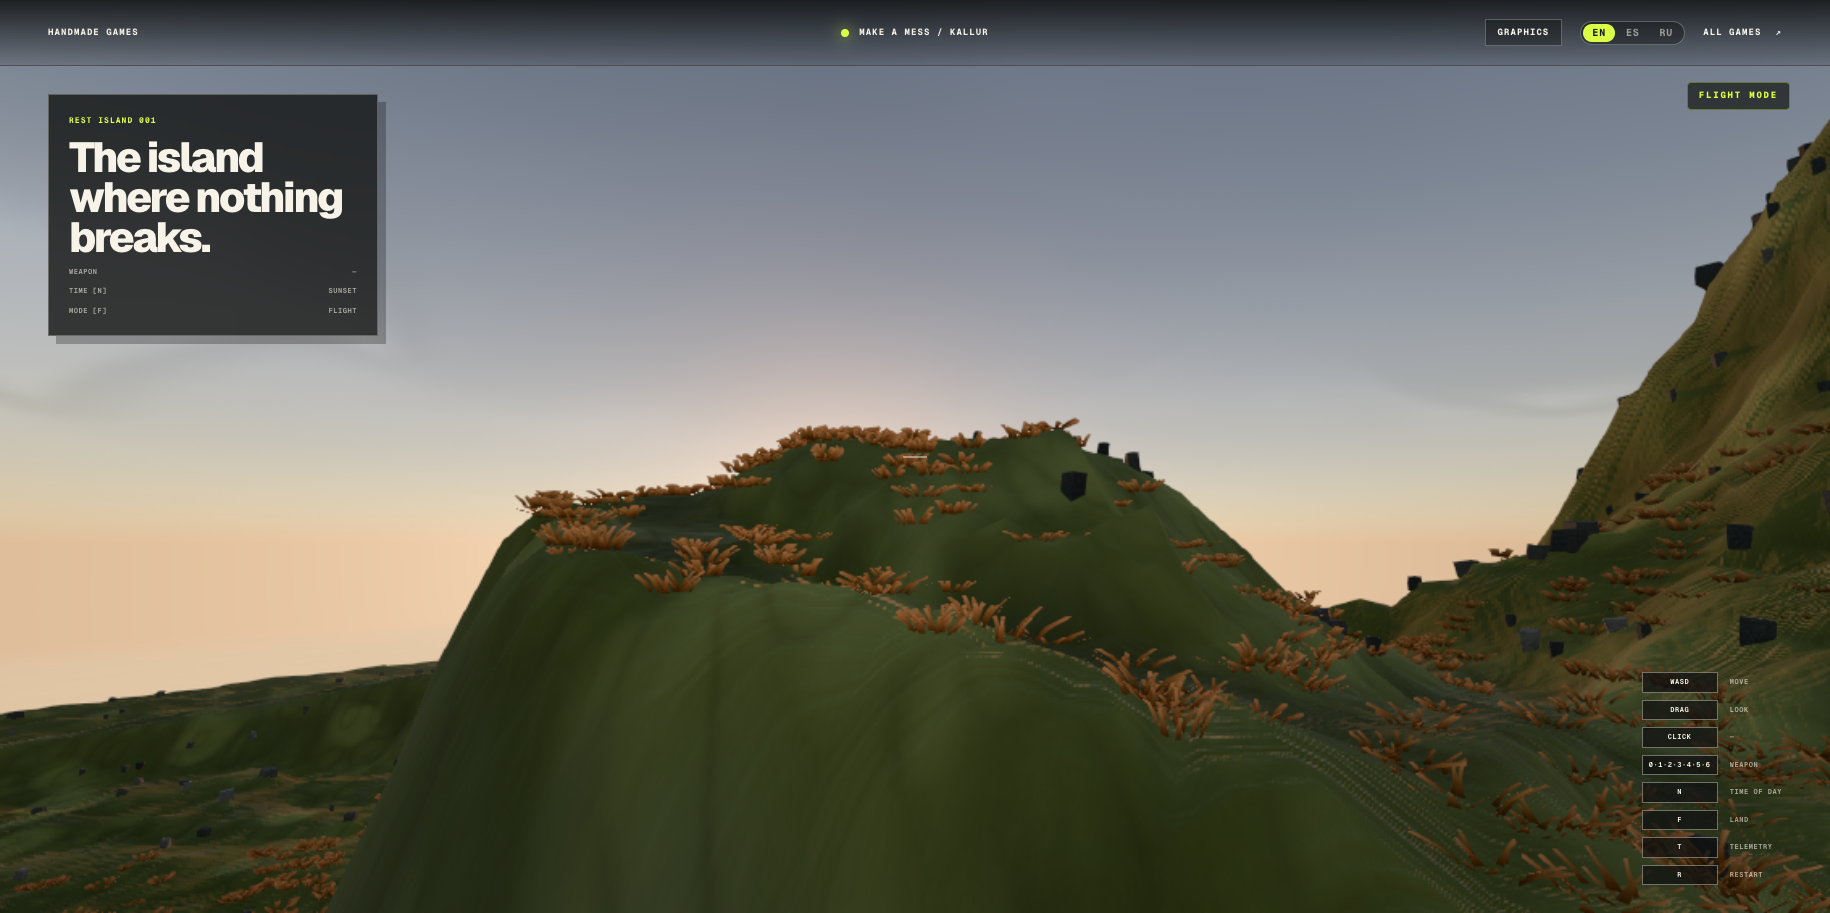
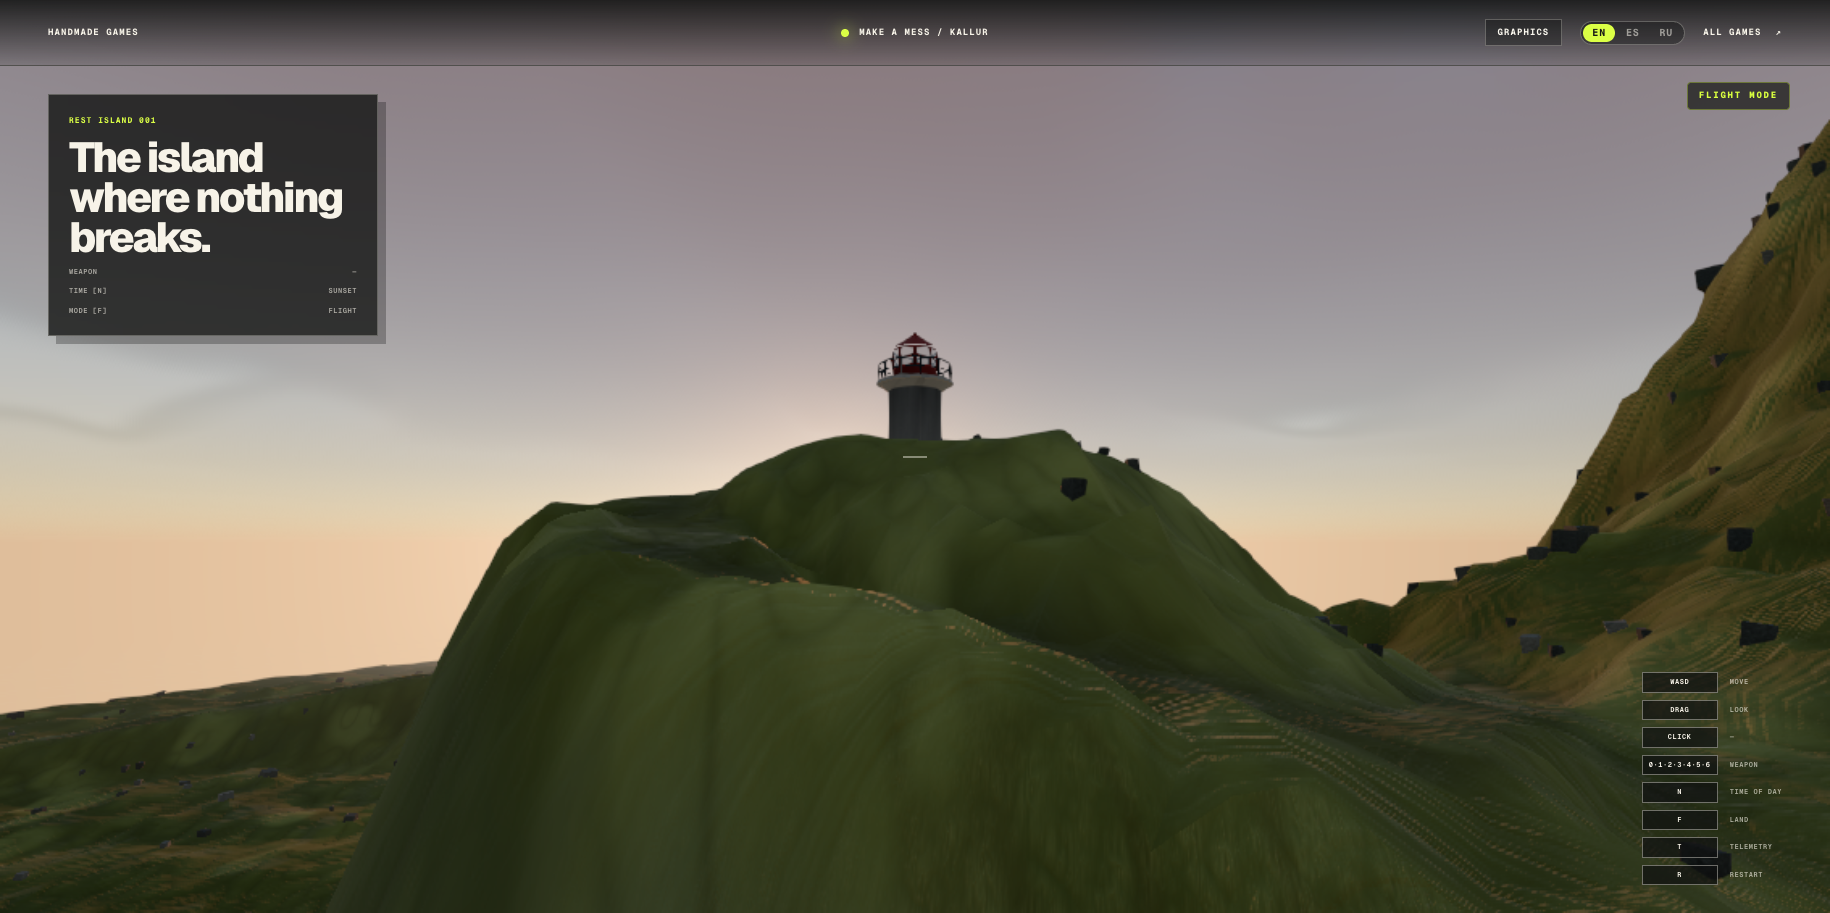
feat(kallur): the lighthouse searchlight - dusk beam off the mountain side
A directed spot from the lantern bulb (the physical source behind clear
glass), azimuth DERIVED from the path data: the first leg's bearing
rotated 45 degrees away from the great wall, thrown into the horizon,
visible-scatter beam of 85 m, waking with the lamps at dusk. Igor's
live corrections applied: mirrored off the mountain, +50% intensity,
no downward pitch. Head-on views get the lens flare (fixtureGlow +
halo): nature blinds when you look into a beam while the cone shader
fades axial views - the flare takes over exactly where the fake bows
out. The frame capture gains a third KeyN pass: deep dusk, where the
lamp pool and the reference-11 canon live.

diff --git a/games/make-a-mess/src/content/scenes/kallur/kallurDocument.ts b/games/make-a-mess/src/content/scenes/kallur/kallurDocument.ts
@@ -23,7 +23,10 @@ import {
   kallurStones,
 } from "./kallurLandscapeDocument.ts";
 import { kallurVisibleStones } from "./kallurStoneField.ts";
-import { createKallurLighthouse } from "./kallurLighthouse.ts";
+import {
+  createKallurLighthouse,
+  KALLUR_LIGHTHOUSE_PAD,
+} from "./kallurLighthouse.ts";
 import { generateKallurWallStrata } from "./kallurWallStrata.ts";
 import { kallurLandscapeSampler } from "./kallurLandscapeDocument.ts";
 
@@ -234,6 +237,68 @@ createKallurLighthouse((object) => {
   lighthouse.objects.push(object);
 });
 
+// The lighthouse SEARCHLIGHT (Igor, 21.08): from dusk the lantern throws a
+// visible beam to the RIGHT of the path as a newly arrived player sees it
+// from the path start — about 45 degrees off the path's own first bearing.
+// The physical source is the lantern bulb behind ordinary glass; the beam
+// azimuth is DERIVED from the path data, not hand-aimed.
+const kallurSpotLights = (() => {
+  const pad = KALLUR_LIGHTHOUSE_PAD;
+  const start = KALLUR_PATH[0];
+  const next = KALLUR_PATH[1];
+  // Southward bearing of the path's first leg (from its second point back
+  // to the start), rotated 45 degrees AWAY from the great wall (Igor,
+  // 21.08: same angle, the other side of the path — off the mountain),
+  // and thrown INTO the horizon, not down at the ground.
+  const bearing = Math.atan2(start[0] - next[0], start[2] - next[2]);
+  const azimuth = bearing - Math.PI / 4;
+  const lampPosition: SceneVector3 = [
+    pad.center[0],
+    pad.elevation + 5.66,
+    pad.center[1],
+  ];
+  return [{
+    id: "kallur:lighthouse:searchlight",
+    position: lampPosition,
+    direction: [
+      Math.sin(azimuth),
+      0,
+      Math.cos(azimuth),
+    ] as SceneVector3,
+    color: "#ffe9c4",
+    distance: 95,
+    intensity: 1020,
+    angle: 0.12,
+    penumbra: 0.42,
+    decay: 1.6,
+    // Dark hours only: the beam wakes with the lamps at dusk.
+    dayIntensityFactor: 0,
+    transition: { fadeInSeconds: 2.4, fadeOutSeconds: 1.6 },
+    visibleBeam: {
+      opacity: 0.14,
+      sourceRadius: 0.5,
+      length: 85,
+      attenuation: 72,
+      anglePower: 5,
+    },
+    // Head-on honesty: nature BLINDS when you look into a beam (forward
+    // Mie scattering plus the bare lens), while the cone shader fades
+    // axial views to hide its own cross-section. The lens flare takes
+    // over exactly where the cone bows out.
+    fixtureGlow: {
+      color: "#ffe9c4",
+      intensity: 8.5,
+      halo: {
+        physicalDiameter: 0.8,
+        minScreenDiameter: 6,
+        maxWorldDiameter: 2.6,
+        dayOpacity: 0,
+        nightOpacity: 0.95,
+      },
+    },
+  }];
+})();
+
 export const kallurLandscapeVisual: LandscapeVisualDefinition = {
   material: "grass",
   color: "#6d7046",
@@ -298,6 +363,7 @@ export const kallurDocument: AuthoredSceneDocument = {
     reset: "Вернуться на тропу",
   },
   landscapeVisual: kallurLandscapeVisual,
+  spotLights: kallurSpotLights,
   groups: [...groups.values()],
   indestructible: true,
   fogDistances: [160, 430],

diff --git a/games/make-a-mess/src/content/scenes/kallur/kallurLighthouse.ts b/games/make-a-mess/src/content/scenes/kallur/kallurLighthouse.ts
@@ -22,6 +22,8 @@ export const KALLUR_LIGHTHOUSE_ACCEPTED_REVISION = "lighthouse-a06-2026-08-20";
 const foundPad = KALLUR_PADS.find((pad) => pad.id === "lighthouse-pad");
 if (!foundPad) throw new Error("lighthouse-pad missing from KALLUR_PADS");
 const PAD = foundPad;
+/** The resolved site: one shared source for the adapter and the searchlight. */
+export const KALLUR_LIGHTHOUSE_PAD = PAD;
 const SITE_YAW = PAD.yaw;
 const BASE_Y = PAD.elevation;
 const COS = Math.cos(SITE_YAW);
